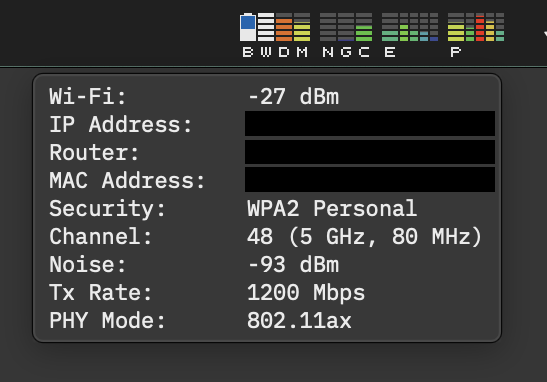
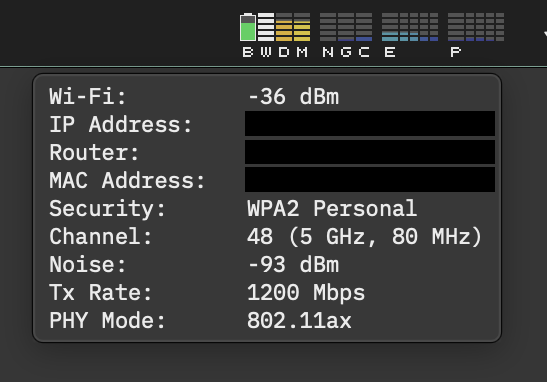
Retake the README pictures with the battery's charge filled green on battery

diff --git a/README.md b/README.md
@@ -38,7 +38,7 @@ Rest the pointer on a bar for a second and its reading shows below the menu bar.
 
 * **Battery:** the battery's charge, and whether it is charging, not charging, charged, or on battery, with the time left when macOS gives one.
 
-<img src="screenshots/hover-battery.png" width="237" alt="Battery label">
+<img src="screenshots/hover-battery.png" width="250" alt="Battery label">
 
 * **Wi-Fi:** while connected, the signal, then the IP address, router, MAC address, security, channel, noise, transmit rate and PHY mode; else whether Wi-Fi is off or not connected. In the picture the addresses are blacked out.
 
@@ -70,7 +70,7 @@ Rest the pointer on a bar for a second and its reading shows below the menu bar.
 
 * **Performance cores:** the same for the performance cores.
 
-<img src="screenshots/hover-p-cores.png" width="243" alt="Performance cores label">
+<img src="screenshots/hover-p-cores.png" width="240" alt="Performance cores label">
 
 ## 🛠 Installation
 
